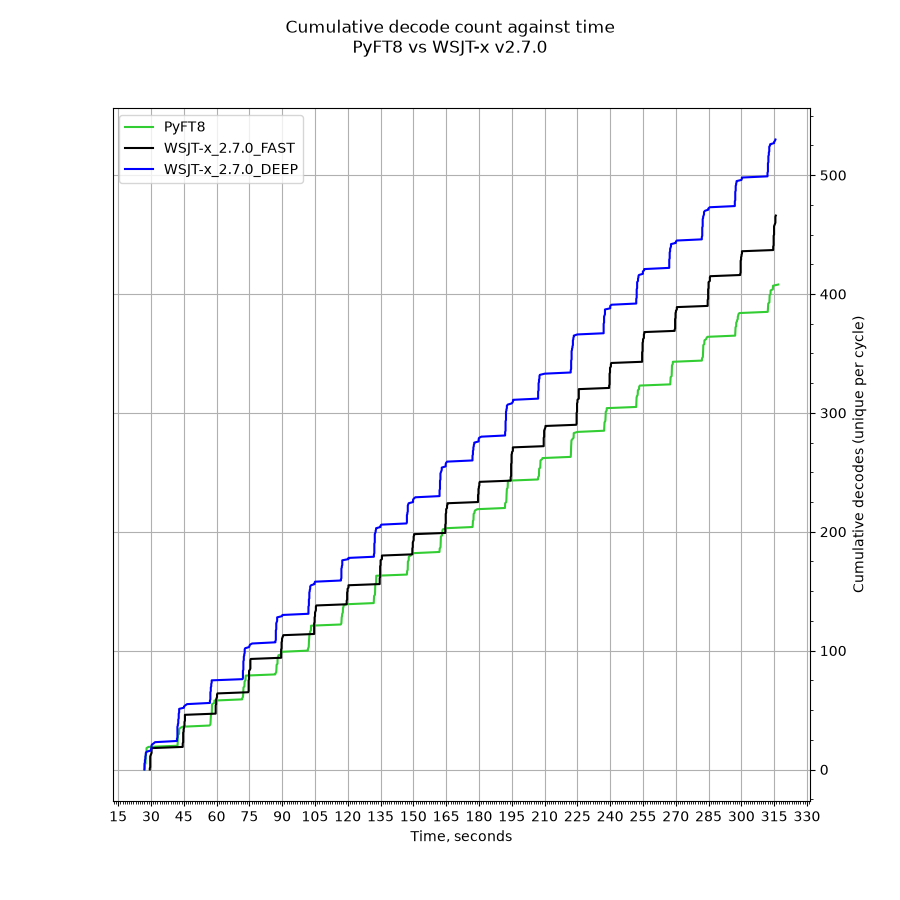
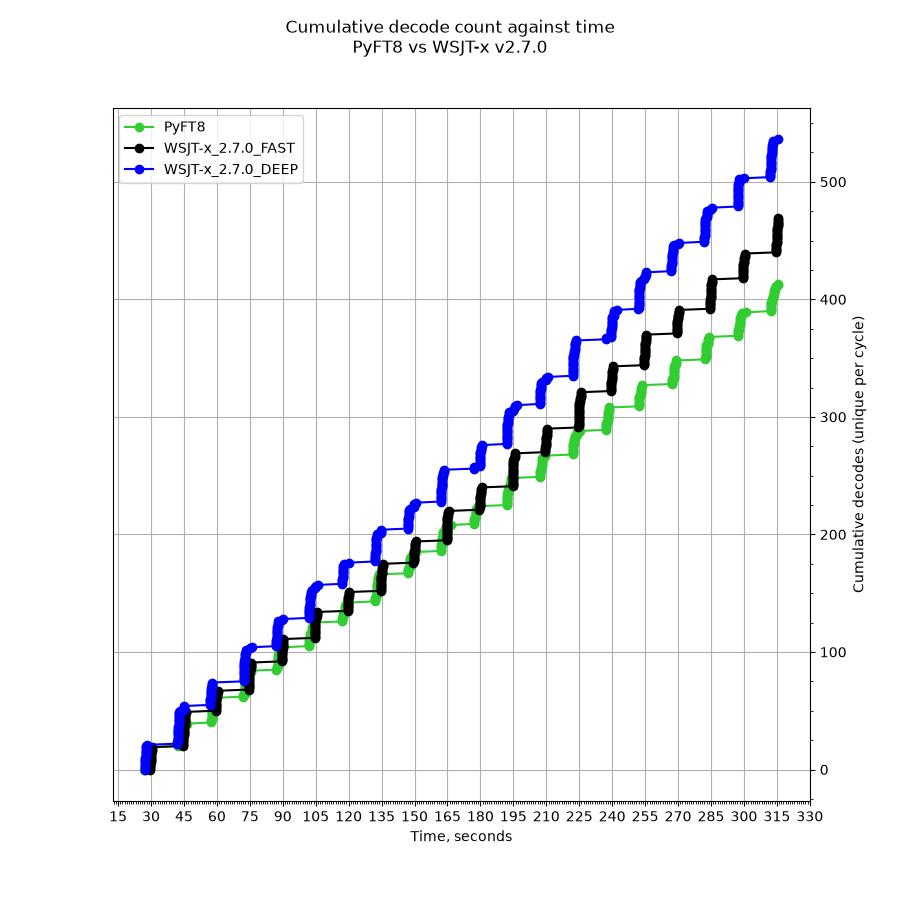
omitted code line fixed, test & bump version

diff --git a/tests/plot_decode_times.py b/tests/plot_decode_times.py
@@ -8,7 +8,7 @@ def plot_from_file(ax, fname, label, color):
     print(fname)
     with open(fname, 'rb') as f:
         times = pickle.load(f)
-        ax.plot(times, np.array(range(len(times))), label = label, color = color)
+        ax.plot(times, np.array(range(len(times))), label = label, color = color, marker = 'o')
 
 i0, i1 = 1, 39
     
@@ -17,7 +17,7 @@ ax.yaxis.set_label_position("right")
 
 
 
-plot_from_file(ax, 'live_decode_times_PyFT8_1_8_28.pkl', 'PyFT8', 'limegreen')
+plot_from_file(ax, 'live_decode_times_PyFT8_2_8_28.pkl', 'PyFT8', 'limegreen')
 
 plot_from_file(ax, 'live_decode_times_WSJTx_1_8_28_FAST.pkl', 'WSJT-x_2.7.0_FAST', 'black')
 plot_from_file(ax, 'live_decode_times_WSJTx_2_8_28_DEEP.pkl', 'WSJT-x_2.7.0_DEEP', 'blue')

diff --git a/PyFT8/pyft8.py b/PyFT8/pyft8.py
@@ -10,7 +10,7 @@ from PyFT8.databases import History
 from PyFT8.qso_manager import QSO_manager
 from PyFT8.databases import History
 
-VER = '3.7.3'
+VER = '3.7.4'
 PSKR_REFRESH_MINS = 20
 
 def get_config(config_folder):

diff --git a/PyFT8/receiver.py b/PyFT8/receiver.py
@@ -294,6 +294,7 @@ class Candidate:
         self.cgrid = np.ones((N_SYMS, 8), dtype = np.complex64)
 
     def package(self):
+        self.decode_completed = True
         o = self.origin
         decode_status = self.decode_status
         tsec, fHz = o['tsec'], o['fHz']